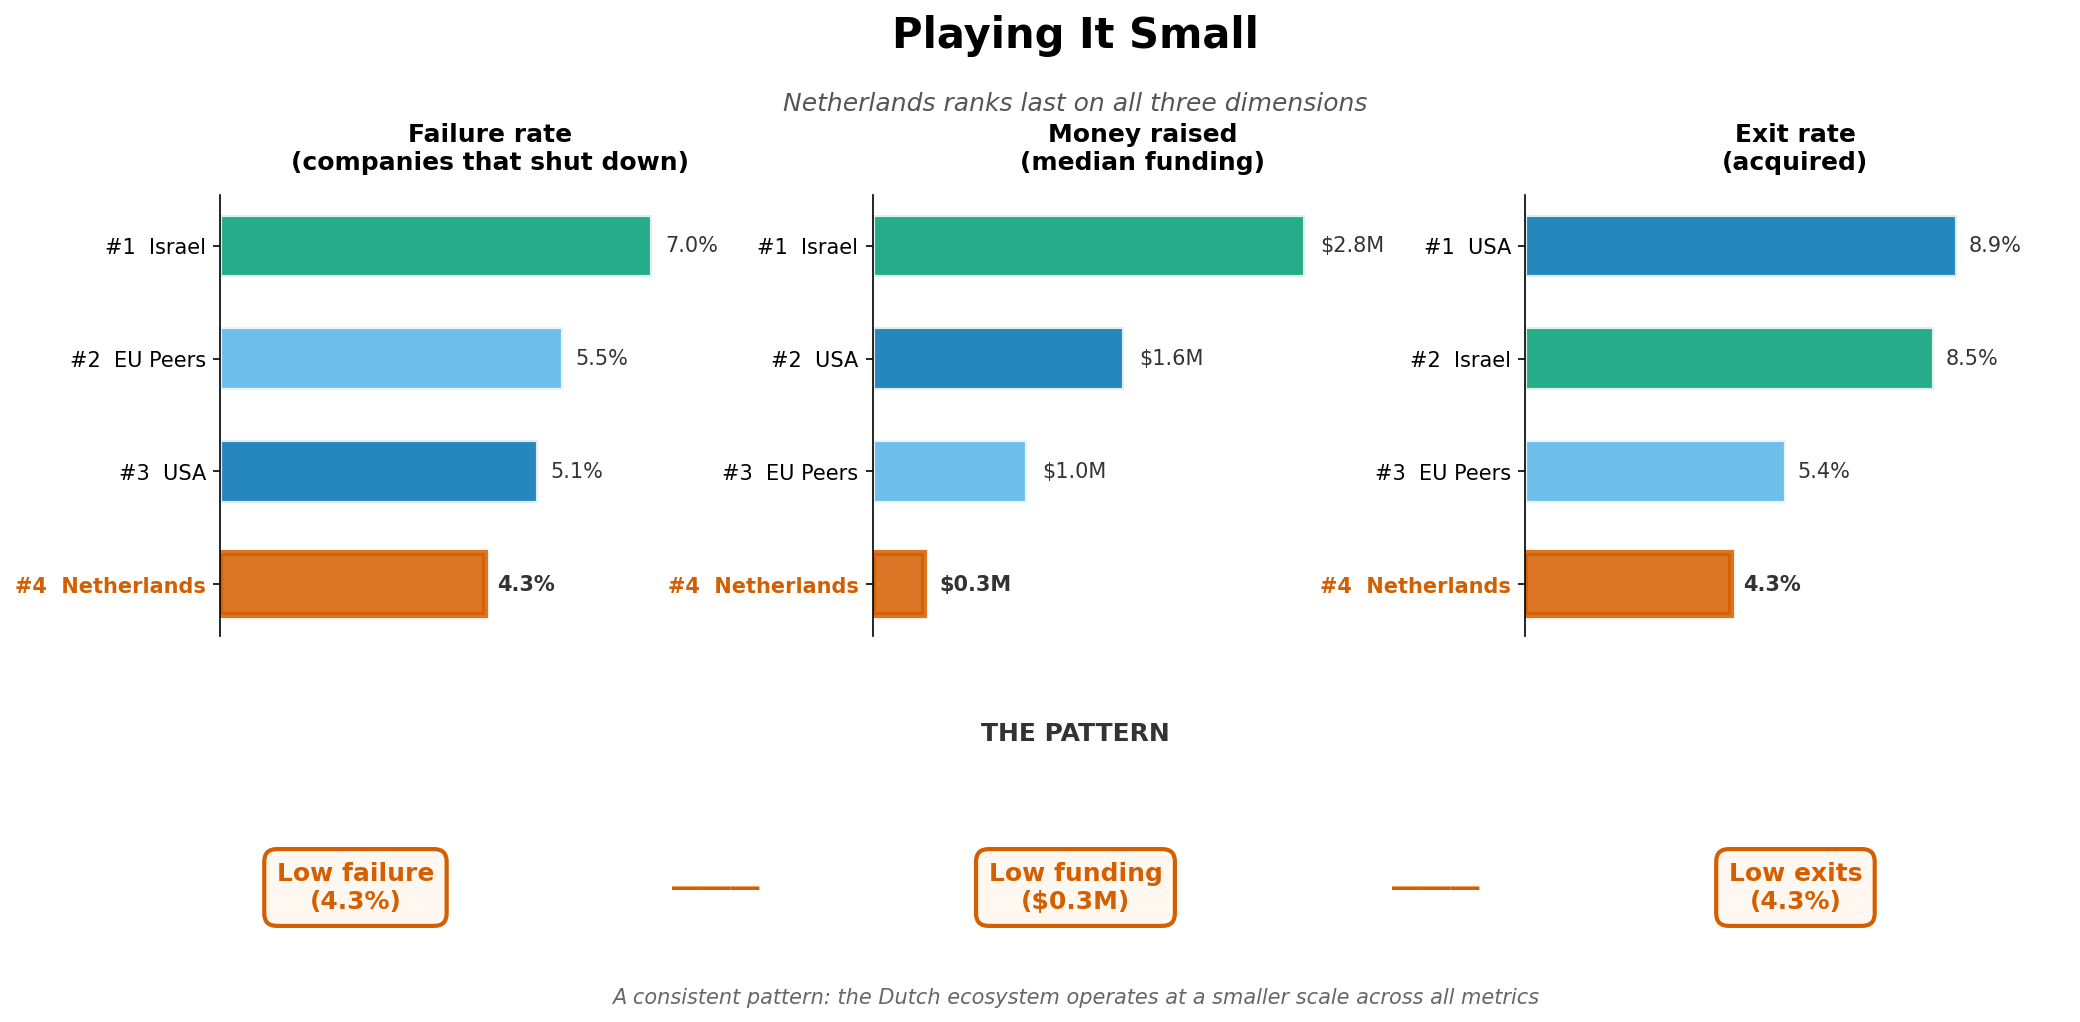
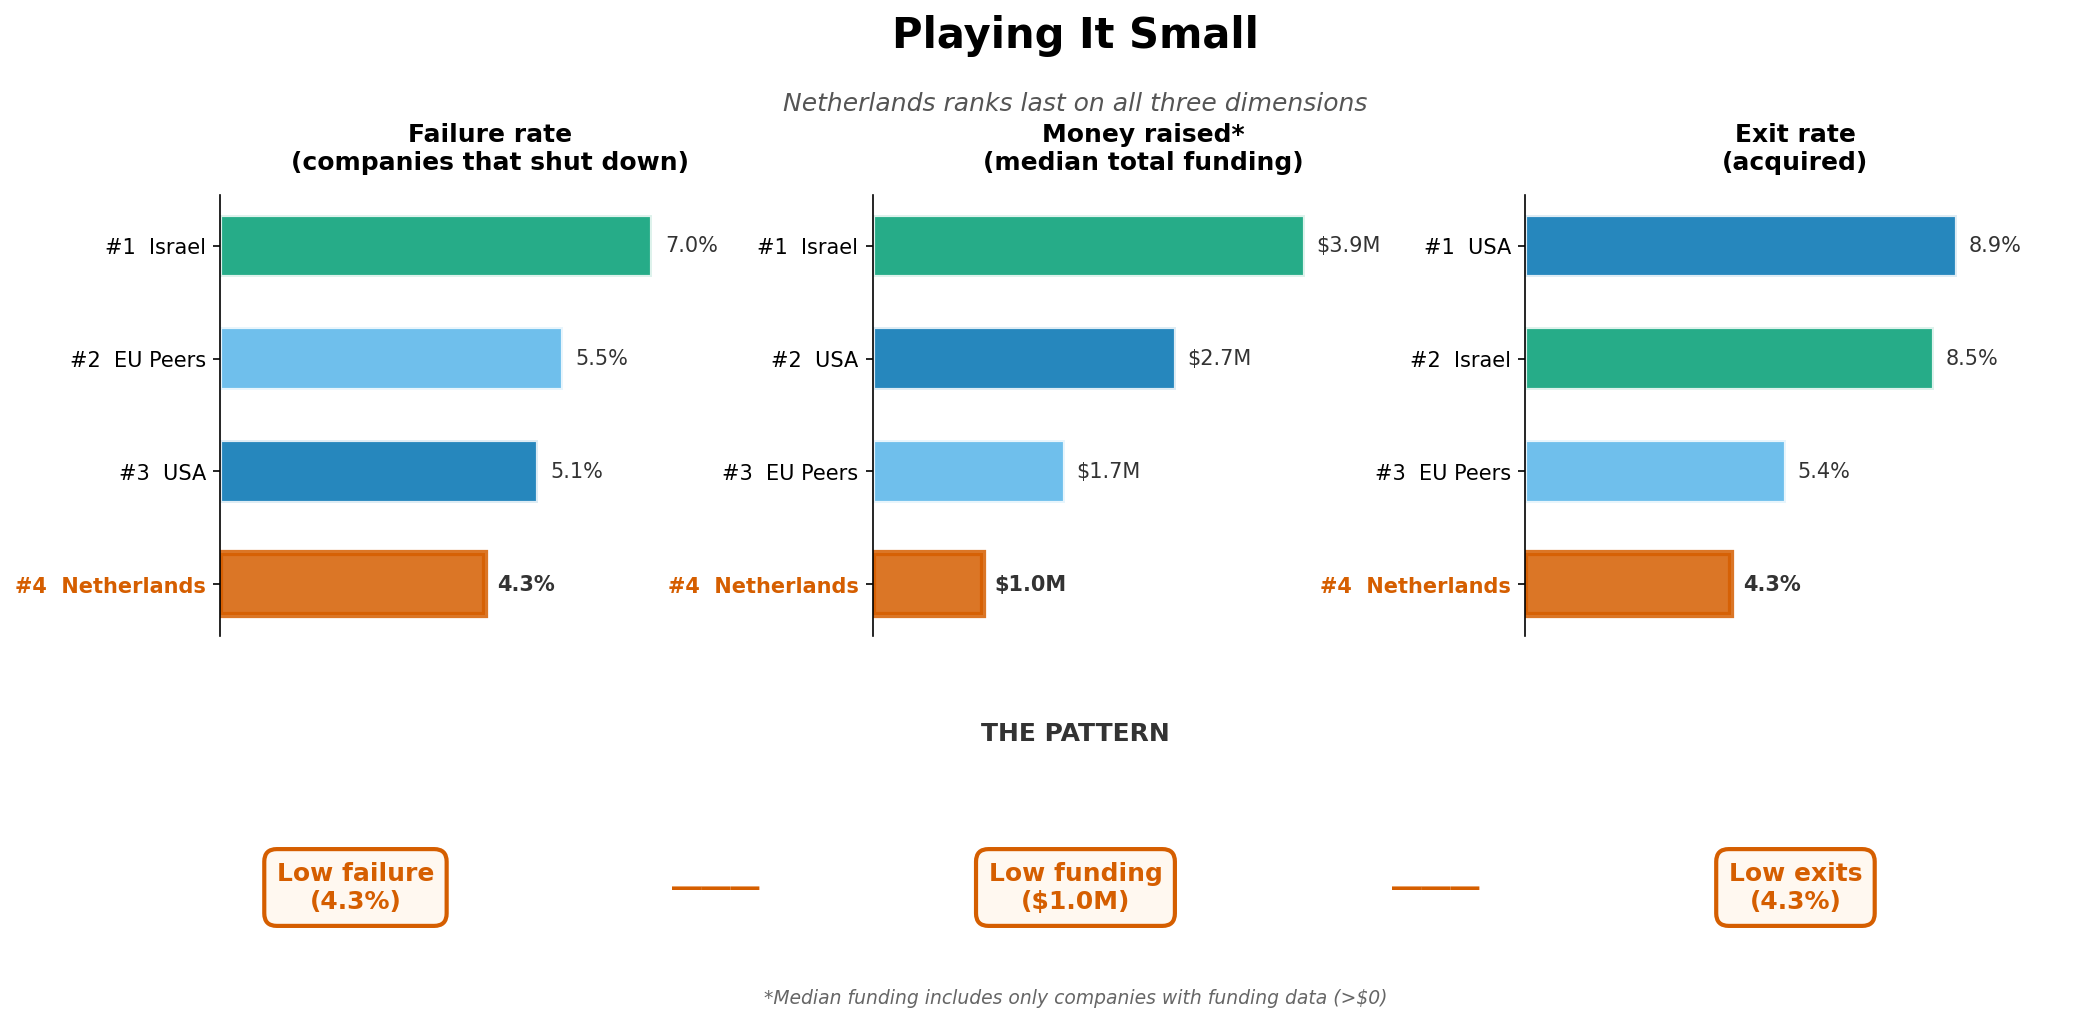
fix: exclude $0 funding from median calculation for fair comparison
- Updated median funding values: NL $1.0M, EU $1.7M, USA $2.7M, Israel $3.9M
- Added asterisk note explaining methodology excludes companies with $0 funding
- Updated notebook code to filter out $0 amounts before calculating median

diff --git a/task-1-analysis/report.md b/task-1-analysis/report.md
@@ -26,8 +26,10 @@ The bottleneck is Seed→A, not seed availability.
 | Metric | Netherlands | EU Peers | USA | Israel |
 |--------|-------------|----------|-----|--------|
 | Failure Rate | 4.3% | 5.5% | 5.1% | 7.0% |
-| Median Funding | $0.3M | $1.0M | $1.6M | $2.8M |
+| Median Funding* | $1.0M | $1.7M | $2.7M | $3.9M |
 | Exit Rate | 4.3% | 5.4% | 8.9% | 8.5% |
+
+*Median funding includes only companies with funding data (>$0).
 
 Low failure + low funding + low exits = playing it small.
 
